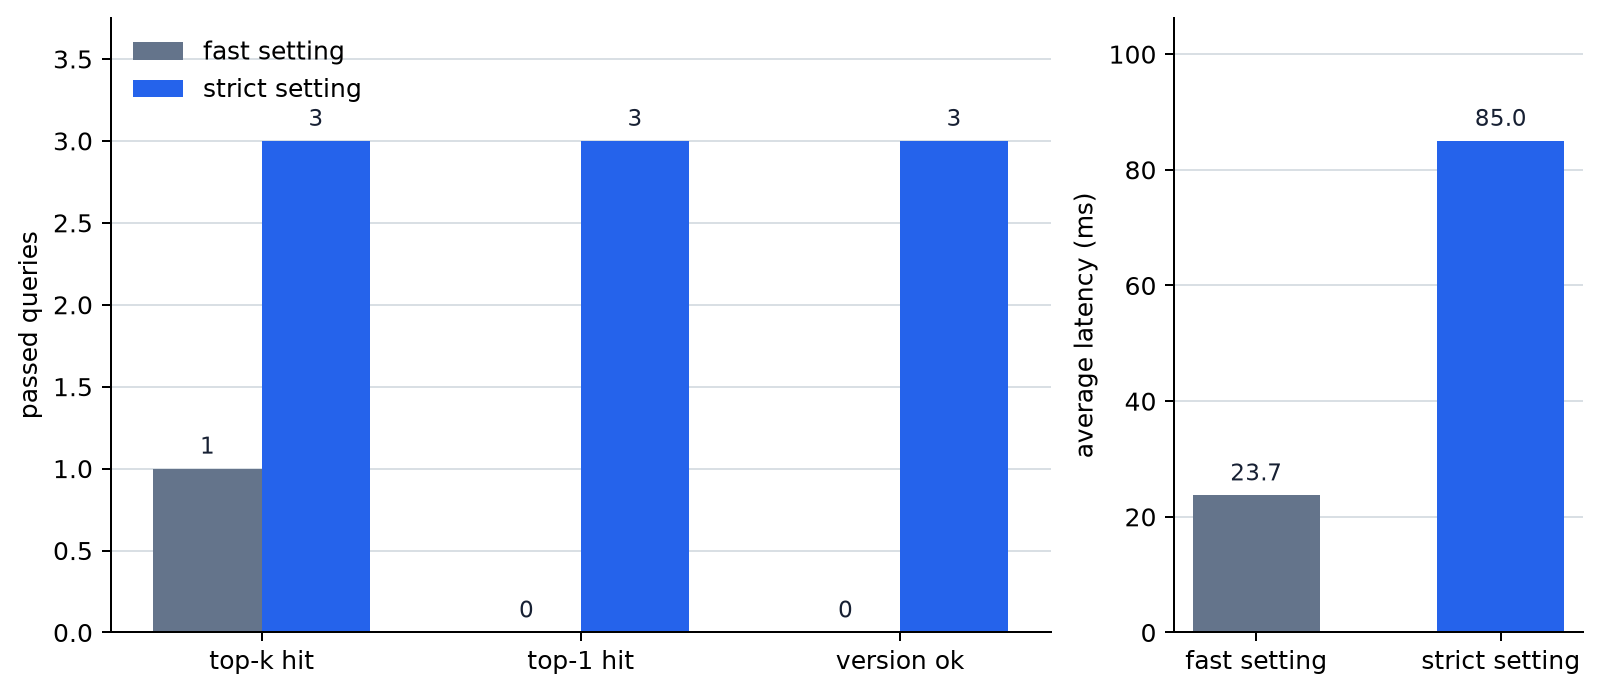
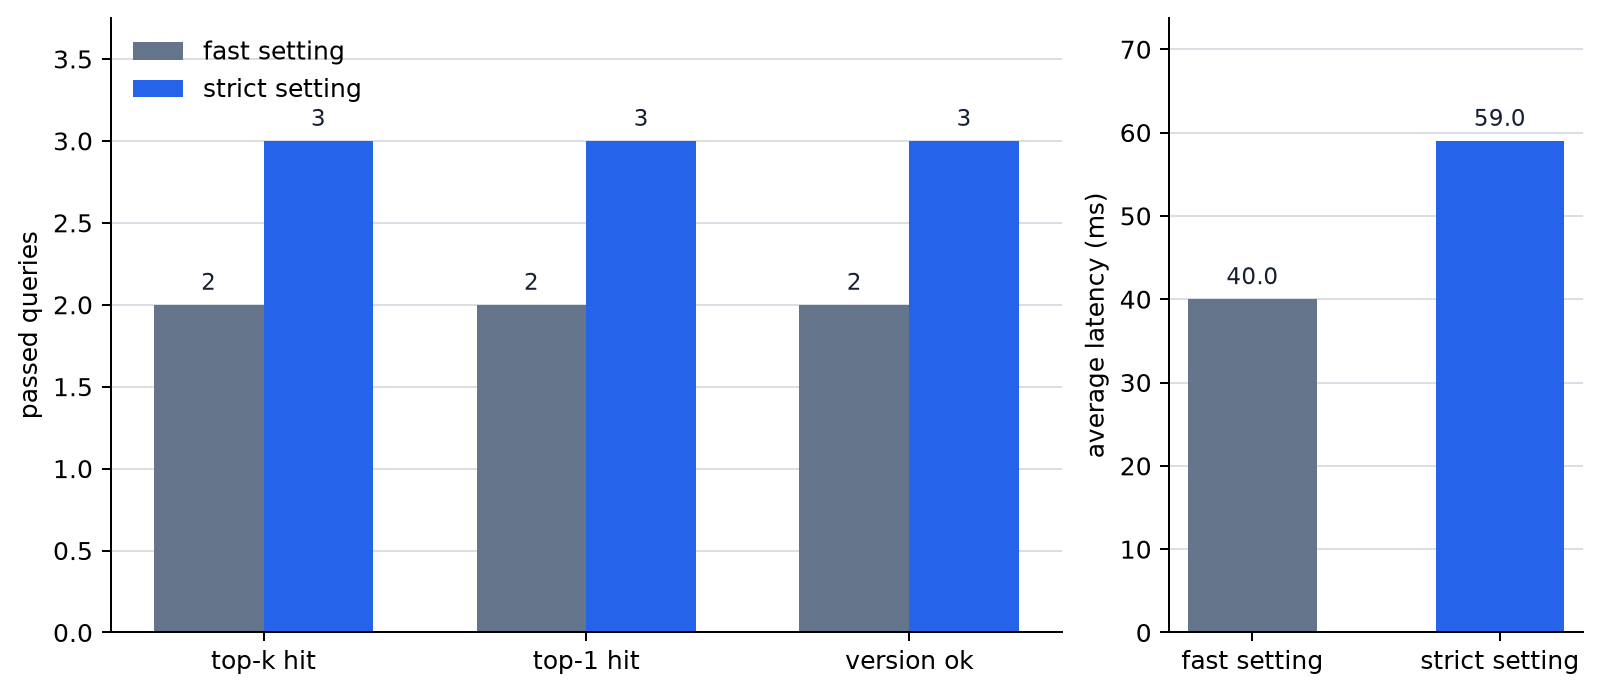
docs: align ANN examples with Python guidelines

diff --git a/docs/assets/part-06/chapter-11/p6_11_2_index_quality_chart.py b/docs/assets/part-06/chapter-11/p6_11_2_index_quality_chart.py
@@ -17,16 +17,16 @@ OUT_DIR = Path(__file__).resolve().parent
 
 SUMMARY = {
     "fast": {
-        "hit_count": 1,
-        "top1_hit_count": 0,
-        "version_ok_count": 0,
-        "avg_latency_ms": 23.7,
+        "hit_count": 2,
+        "top1_hit_count": 2,
+        "version_ok_count": 2,
+        "avg_latency_ms": 40.0,
     },
     "strict": {
         "hit_count": 3,
         "top1_hit_count": 3,
         "version_ok_count": 3,
-        "avg_latency_ms": 85.0,
+        "avg_latency_ms": 59.0,
     },
     "query_count": 3,
 }

diff --git a/management/guidelines/python-example-guidelines.md b/management/guidelines/python-example-guidelines.md
@@ -48,12 +48,14 @@
 - 코드 앞에 문제 상황, 입력(input), 정답(label) 또는 기대 출력(output), 확인할 개념을 짧게 둔다.
 - 원시 입력 데이터가 CSV, JSON, 로그 파일처럼 파일 형태를 가질 수 있다면, 가능하면 그 파일을 코드 밖 자산으로 분리하고 본문에서는 `입력 파일 설명`과 `실행 코드`를 구분해 제시한다.
 - 입력 파일을 따로 두었다면, Python 코드는 인라인 문자열이나 하드코딩된 배열을 다시 복제하지 말고 실제 파일을 읽는 단계부터 시작한다.
+- 본문에 데이터 표를 길게 넣어야 할 정도로 입력이 커지면, Part 7 프로젝트 실습에서 쓰는 방식처럼 CSV 자산을 따로 만들고 본문에는 파일 링크, 한 행의 의미, 핵심 열, 짧은 발췌만 둔다.
 - 가능하면 `print` 또는 이에 준하는 출력 코드를 함께 둔다.
 - 코드 블록 아래에는 가능하면 실행 결과 예시도 함께 둔다.
 - 우선적으로 보여 줄 값은 샘플 수, `shape`, 분포, 분리 결과, 예측과 실제값 비교처럼 현재 절의 중심 질문과 직접 연결된 값이다.
 - 아직 설명하지 않은 고급 지표, 튜닝 로그, 성능 비교는 범위 안에 있을 때만 넣는다.
 - 의사 코드보다 실제 실행 가능한 예제를 우선한다.
 - 가능하면 실제 라이브러리, 실제 데이터 형식, 실제 전처리 흐름, 실제 모델 입출력 중 적어도 하나와 연결한다.
+- 다만 실제 라이브러리 사용이 현재 Section의 중심 질문보다 설치, API 사용법, 프로젝트 환경 설정을 더 크게 만들면 본문 Section 안에 억지로 넣지 않는다. 그런 실습은 Part 7 프로젝트 목차로 넘기고, 현재 Section에는 핵심 판단을 확인할 수 있는 축약 실험만 둔다.
 - 단순화가 필요하면 축약한 부분과 실제 관찰 포인트를 함께 밝힌다.
 - 독자가 수치를 바꿔 보며 결과 차이를 다시 확인할 수 있어야 한다.
 - 실험형 예제라면 적어도 하나 이상의 `조작할 값`, `관찰할 출력`, `해석할 질문`을 코드 앞뒤에 명시한다.

diff --git a/management/release-notes/sections/part-06/P6-11.2.md b/management/release-notes/sections/part-06/P6-11.2.md
@@ -5,6 +5,9 @@
 
 ### v2026.07.19
 
+- Python 예제 재설계: 미리 만든 fast/strict 후보 목록을 집계하던 예제를 제거하고, CSV로 분리한 문서 벡터와 질문 벡터를 읽어 `candidate_budget`, `version_filter` 설정 변화에 따라 후보 압축, top-k 포함률, top-1 정합률, 버전 정합성, 지연 시간 대체값이 실제로 달라지는 실험형 예제로 바꿨다.
+- 자산 반영: 예제 입력 데이터 `p6-11-index-documents.csv`, `p6-11-index-queries.csv`를 추가하고, `index-quality-latency` 차트 소스와 PNG를 새 실험 출력 기준으로 갱신했다.
+- 범위 판단 반영: 실제 ANN 라이브러리 실습은 P6-11.2 본문 예제가 아니라 Part 7 프로젝트 실습에서 다루는 것이 적절하다고 정리하고, P6-11.2에는 ANN적 타협을 이해하는 축약 실험만 남겼다.
 - 메타데이터 반영: 본문 Version을 `v2026.07.19`로 갱신했다.
 - 본문 정리: 연습 및 예제의 `문제 상황` 블록이 같은 검색 품질 평가 기준을 두 번 반복하던 부분을 줄였다.
 - 릴리즈노트 정리: 기존 항목을 최신순으로 재배치했다.

diff --git a/management/release-notes/sections/part-07/P7-index.md b/management/release-notes/sections/part-07/P7-index.md
@@ -4,6 +4,7 @@
 - Source File: `docs/parts/part-07/index.md`
 
 ### v2026.07.19
+- 목차 반영: P6-11.2에서 파생되는 실제 ANN 검색 설정 실습은 개념 본문이 아니라 Part 7 프로젝트 실습에서 다루는 것이 적절하다고 보고, Part 7 근거와 실행 기록 축에 `P7-5.4 ANN 검색 설정 실습` 후보를 추가했다.
 - 변경 이유: Part 시작 페이지의 실습 안내가 절차형 진행 안내처럼 읽히는 부분을 줄이고, 한국어·영어·중국어 표제 대응을 맞췄다.
 - 본문 반영: `실습 기록의 공통 리듬`을 기록 요소 표로 바꾸고, `이 파트의 목표` 중복 표제를 `프로젝트를 여는 질문` 계열 제목으로 정리했다. / 학습밀도 리포트 적용으로 공통 기록 요소가 실제로 회수되는 대표 Section 링크를 추가했다.
 - 번역 동기화 메모: 영어판과 중국어 간체판도 같은 표제 구조와 기록 요소 표로 동기화했다. 학습밀도 리포트 적용으로 추가한 대표 Section 링크는 향후 번역본에도 같은 역할의 링크로 반영해야 한다.

diff --git a/docs/table-of-contents.md b/docs/table-of-contents.md
@@ -822,6 +822,7 @@ Part 7은 독립된 새 이론 Part가 아니라, 앞서 소개한 내용을 하
 - **P7-5.1 검색, 근거, 답변 흐름 실습**: 검색 후보, 선택 근거, 최종 답변이 한 파이프라인 안에서 어떻게 이어지는지 다룹니다.
 - **P7-5.2 검색 실패와 근거 누락 기록**: 부정확한 답변을 검색 실패, 근거 부족, 답변 구성 문제로 나누어 기록하는 방법을 정리합니다.
 - **P7-5.3 질문-근거 경계 연습**: 같은 문서 집합에서 질문 문구를 바꾸며, `근거 부족`, `답변 과장 위험`, `근거 기반 답변` 상태가 어떻게 갈리는지 비교합니다.
+- **P7-5.4 ANN 검색 설정 실습**: 실제 ANN 라이브러리나 인덱스 설정을 사용해 후보 수, 검색 지연, top-k 포함률, 버전 필터가 RAG 근거 품질을 어떻게 바꾸는지 프로젝트 기록으로 남깁니다.
 
 #### Chapter 6. agent 실행과 승인 정책 `프로젝트 실습`
 

diff --git a/management/release-notes/sections/part-07/P7-5.4.md b/management/release-notes/sections/part-07/P7-5.4.md
@@ -1,0 +1,8 @@
+# Section Release Note
+
+- Section ID: `P7-5.4`
+- Source File: `docs/parts/part-07/chapter-05/section-04.md`
+
+### v2026.07.19
+- 신규 Section 준비: P6-11.2에서 파생되는 실제 ANN 검색 설정 실습을 Part 7 프로젝트 실습으로 다루기 위해 TBD 자리표시자 파일을 추가했다.
+- 본문 작성 메모: 실제 작성 시 후보 수, 검색 지연, top-k 포함률, 버전 필터, RAG 근거 품질을 함께 기록하는 프로젝트 실습으로 확장한다.

diff --git a/docs/parts/part-07/chapter-05/section-04.md b/docs/parts/part-07/chapter-05/section-04.md
@@ -1,0 +1,8 @@
+# P7-5.4 ANN 검색 설정 실습
+
+> Section ID: `P7-5.4`
+> Version: `v2026.07.19`
+
+TBD.
+
+이 Section은 P6-11.2에서 개념 수준으로 다룬 인덱스(index)와 검색 품질 판단을 실제 프로젝트 실습으로 확장하기 위한 자리입니다. 본문 작성 시에는 실제 ANN 라이브러리나 인덱스 설정을 사용해 후보 수, 검색 지연, top-k 포함률, 버전 필터가 RAG 근거 품질을 어떻게 바꾸는지 실행 기록으로 남깁니다.

diff --git a/docs/assets/part-06/chapter-11/README.md b/docs/assets/part-06/chapter-11/README.md
@@ -14,3 +14,6 @@
 - Python chart sources:
   - `p6_11_1_vector_db_payload_chart.py`
   - `p6_11_2_index_quality_chart.py`
+- CSV example data:
+  - `p6-11-index-documents.csv`
+  - `p6-11-index-queries.csv`
